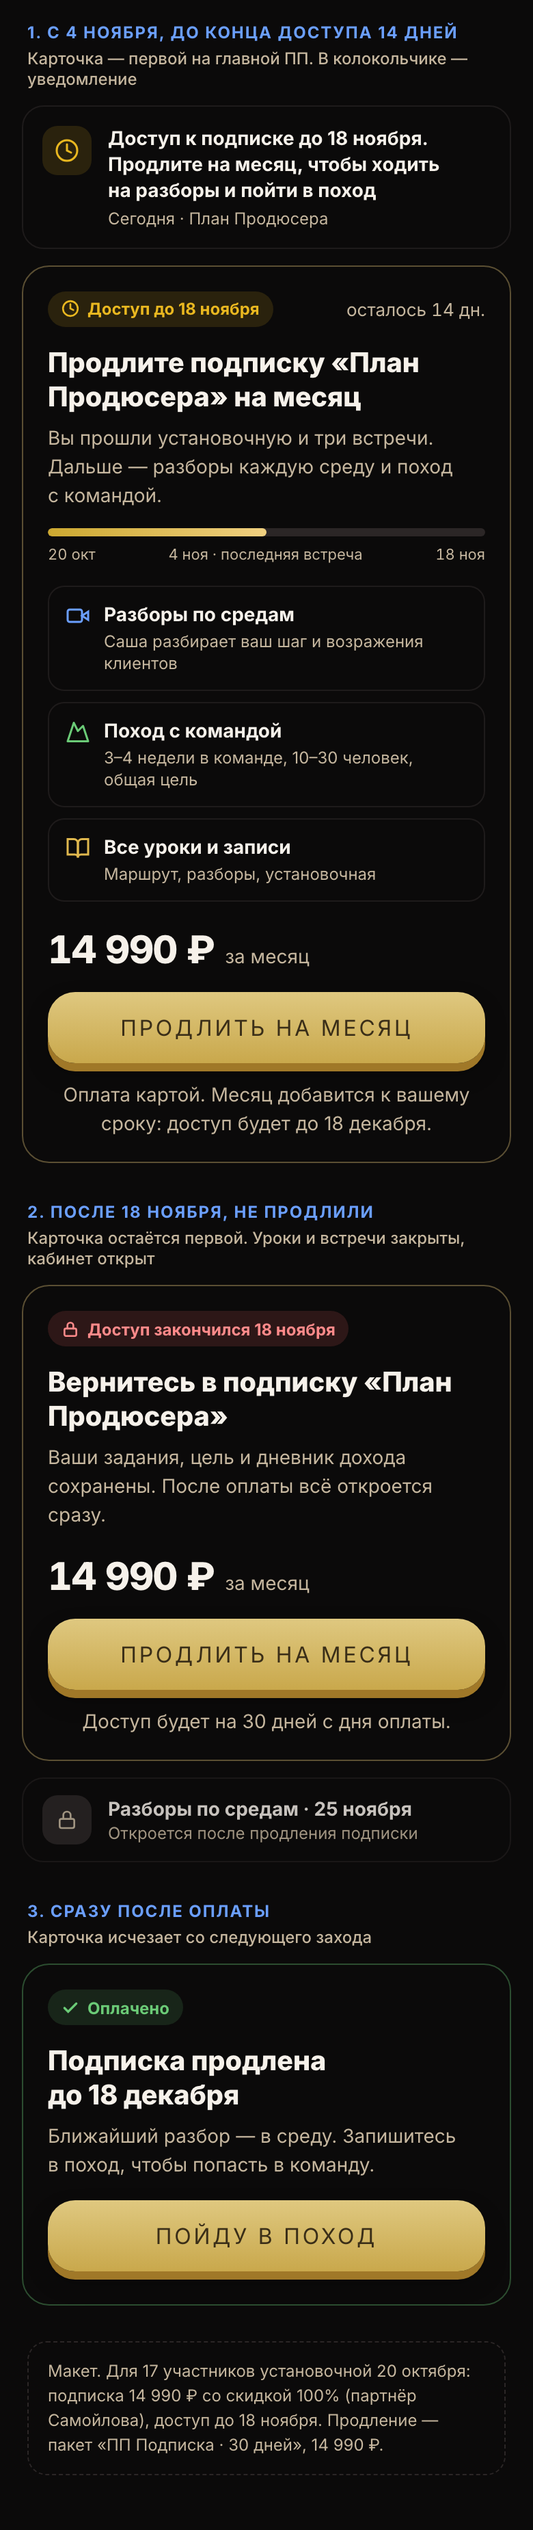
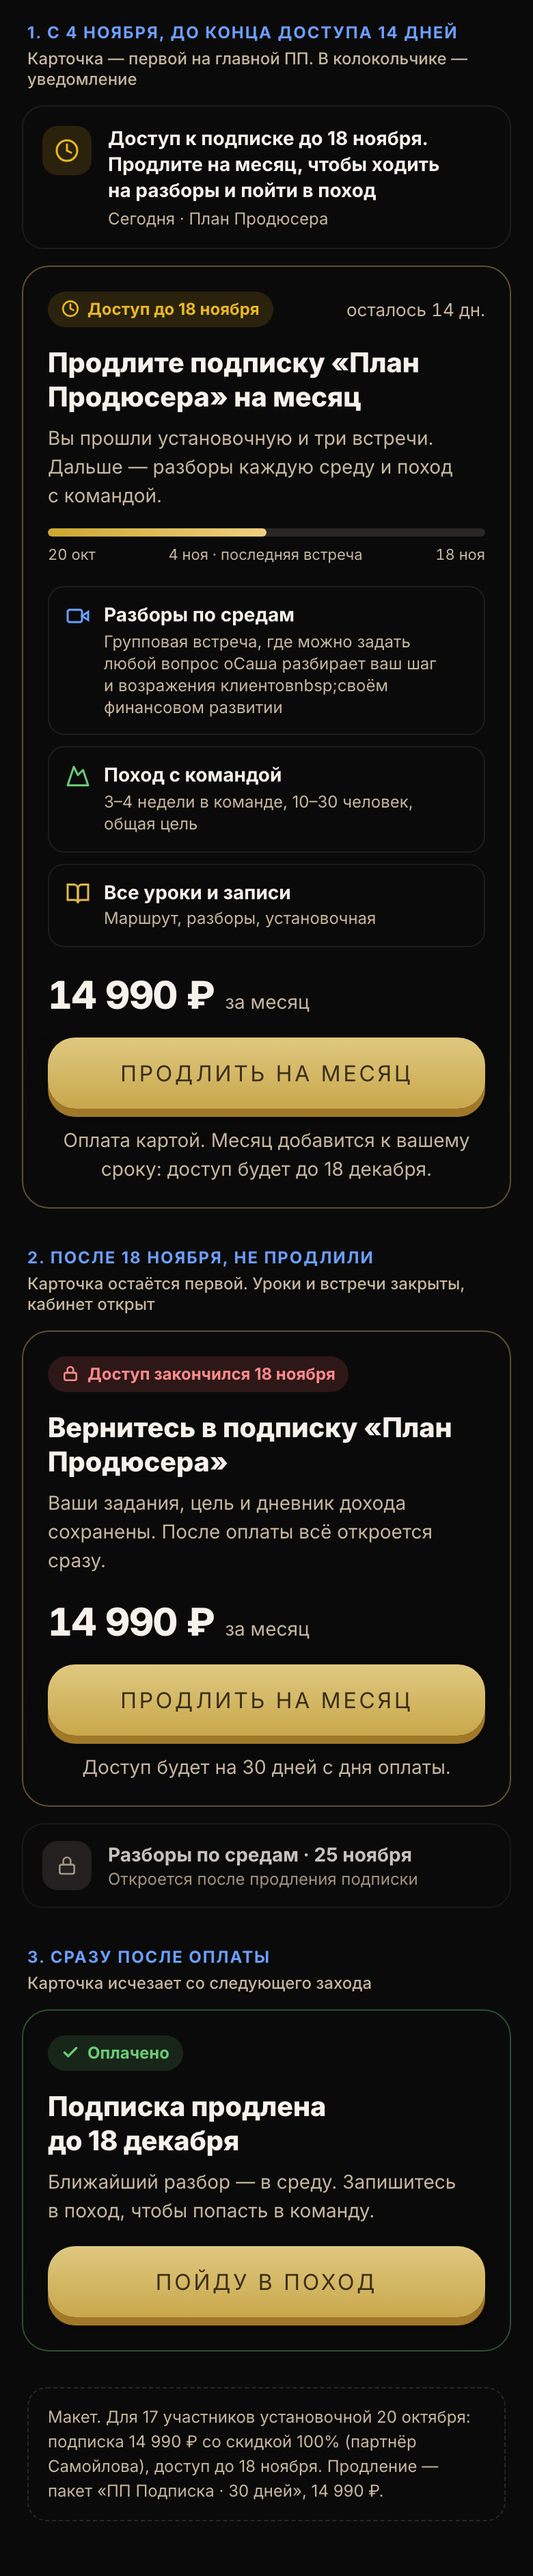
Продление: текст про встречи по средам

diff --git a/prodlenie/index.html b/prodlenie/index.html
@@ -82,7 +82,7 @@ svg{display:block}
       <div><span>20 окт</span><span>4 ноя · последняя встреча</span><span>18 ноя</span></div>
     </div>
     <div class="ex-list">
-      <div><svg viewBox="0 0 24 24" fill="none" stroke="#6B9FFF" stroke-width="2" stroke-linecap="round"><path d="m22 8-6 4 6 4V8Z"/><rect x="2" y="6" width="14" height="12" rx="2"/></svg><div class="ex-t"><b>Разборы по&nbsp;средам</b><span>Саша разбирает ваш шаг и&nbsp;возражения клиентов</span></div></div>
+      <div><svg viewBox="0 0 24 24" fill="none" stroke="#6B9FFF" stroke-width="2" stroke-linecap="round"><path d="m22 8-6 4 6 4V8Z"/><rect x="2" y="6" width="14" height="12" rx="2"/></svg><div class="ex-t"><b>Разборы по&nbsp;средам</b><span>Групповая встреча, где можно задать любой вопрос оСаша разбирает ваш шаг и&nbsp;возражения клиентовnbsp;своём финансовом развитии</span></div></div>
       <div><svg viewBox="0 0 24 24" fill="none" stroke="#6BCB77" stroke-width="2" stroke-linecap="round" stroke-linejoin="round"><path d="m8 3 4 8 5-5 5 15H2L8 3z"/></svg><div class="ex-t"><b>Поход с&nbsp;командой</b><span>3–4 недели в&nbsp;команде, 10–30&nbsp;человек, общая цель</span></div></div>
       <div><svg viewBox="0 0 24 24" fill="none" stroke="#E0B84E" stroke-width="2" stroke-linecap="round"><path d="M2 3h6a4 4 0 0 1 4 4v14a3 3 0 0 0-3-3H2z"/><path d="M22 3h-6a4 4 0 0 0-4 4v14a3 3 0 0 1 3-3h7z"/></svg><div class="ex-t"><b>Все уроки и&nbsp;записи</b><span>Маршрут, разборы, установочная</span></div></div>
     </div>
